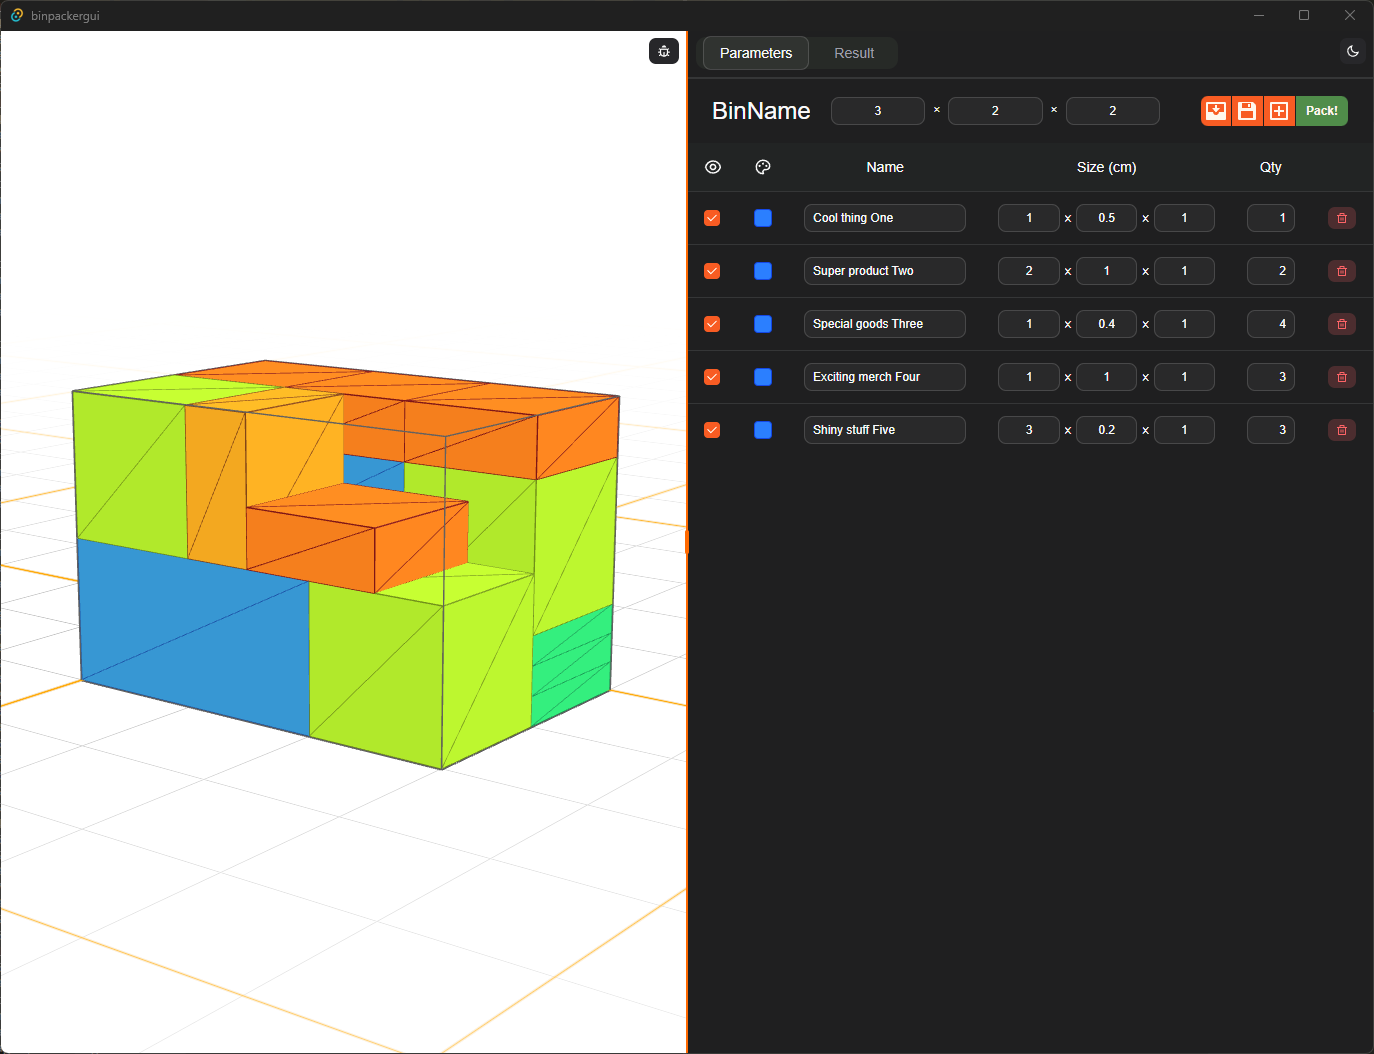
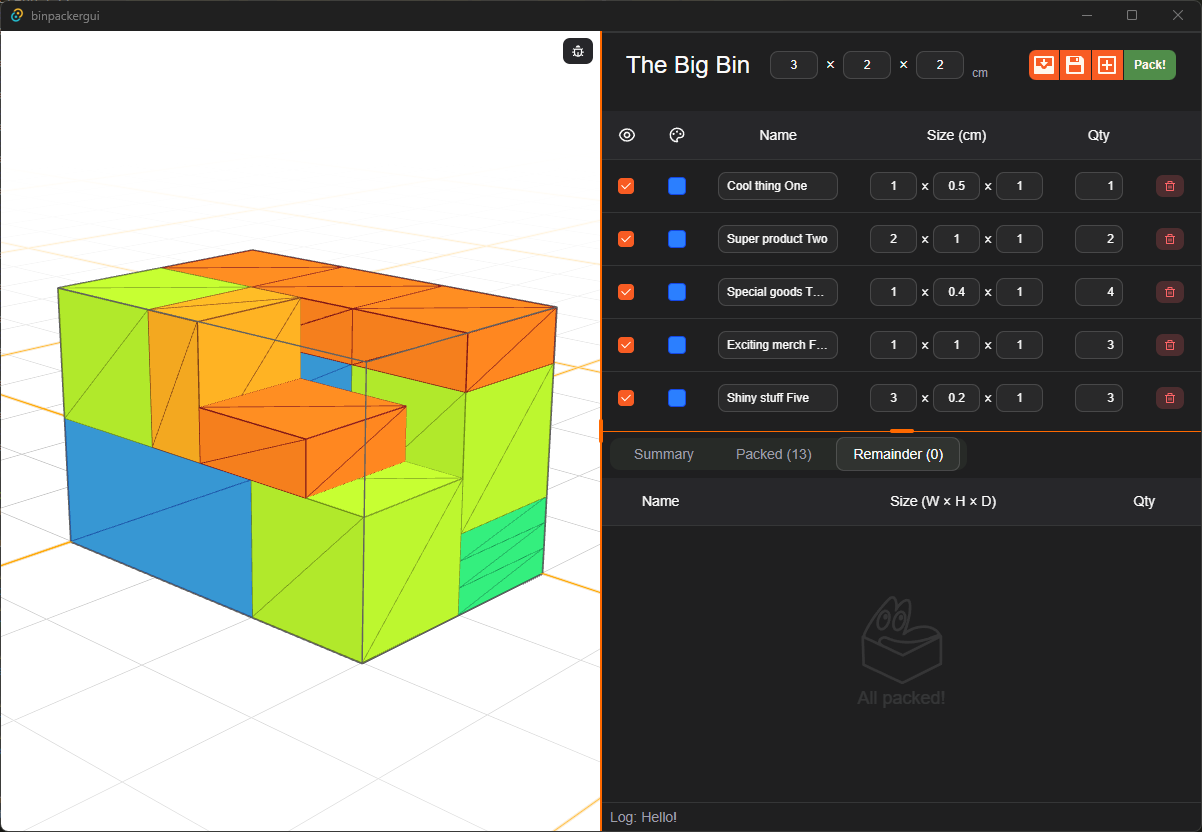
Update readme

diff --git a/README.md b/README.md
@@ -2,7 +2,7 @@
 
 ![](/public/prototype.png)
 
-#### **STATUS**: Barebones UI. The algo is working and often finds optimal or close to optimal solutions, with good performance.
+#### **STATUS**: Rough UI. The algo is working and often finds optimal or close to optimal solutions, with good performance.
 
 #### **CURRENT FOCUS**: Continue to refine algo logic, and start styling the presentation with the current feature set.
 
@@ -17,25 +17,27 @@ To run: ```npm run tauri dev```
 
 ## Todo list
 
+Visual/UX:
+- [ ] Save/Edit bin names (currently placeholder only)
+- [ ] Colour customisation (currently placeholder only)
+- [ ] Log (currently placeholder only)
+- [ ] Export/Import results to CSV 
+- [ ] Metric/Imperial conversions
+- [ ] Animations for in-progress packing
+- [ ] Control inputs guide
+- [ ] 3D view tools (hide on click, temp removal)
+
 Performance:
 - [ ] Render items incrementally (larger quantities of items packs faster than it renders!)
 - [ ] Multi-threading: the algo divides the box into distinct spaces, which could be processed concurrently
 - [x] Use instanced meshes for identical items, to reduce draw calls on render
 - [ ] Hardware acceleration (Currently CPU only)
+- [ ] Wait for packing on non-ui thread
 
 Sorting:
 - [ ] Consider genetic approach, with targeted mutations, and re-pack to try and achieve maximum bin usage
 - [ ] Configurable heuristics (e.g minimise bin size, minimise X/Y/Z use, consider stability)
 - [ ] Multi-bin packing 
-
-Visual/UX:
-- [ ] Instanced results report in tabs
-- [ ] Export/Import results to CSV 
-- [ ] Wait for packing on non-ui thread
-- [ ] Control inputs guide
-- [ ] Colour sets for items (e.g based on size, user defined, random)
-- [ ] 3D manipulation in viewer (hide on click, temp removal)
-- [ ] Metric/Imperial conversions
 
 
 ## Acknowledgements
